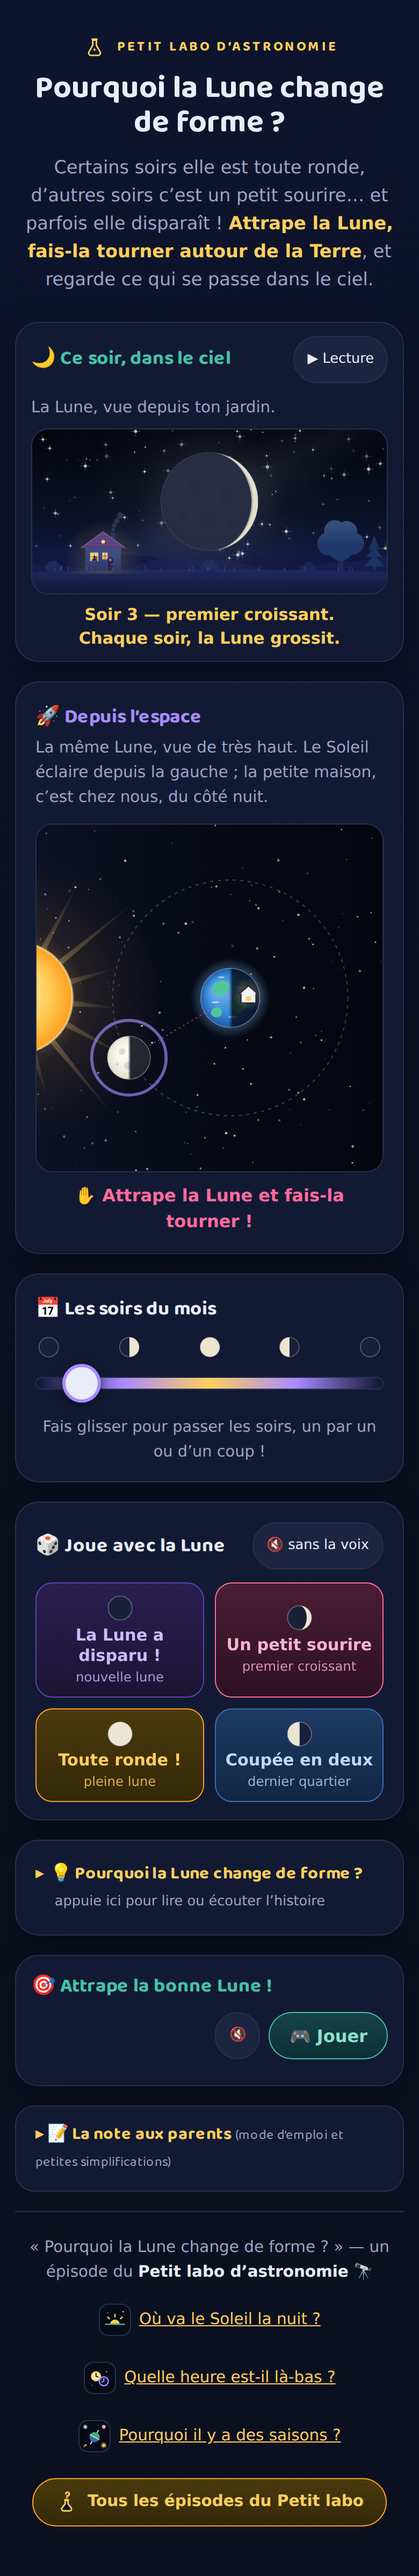
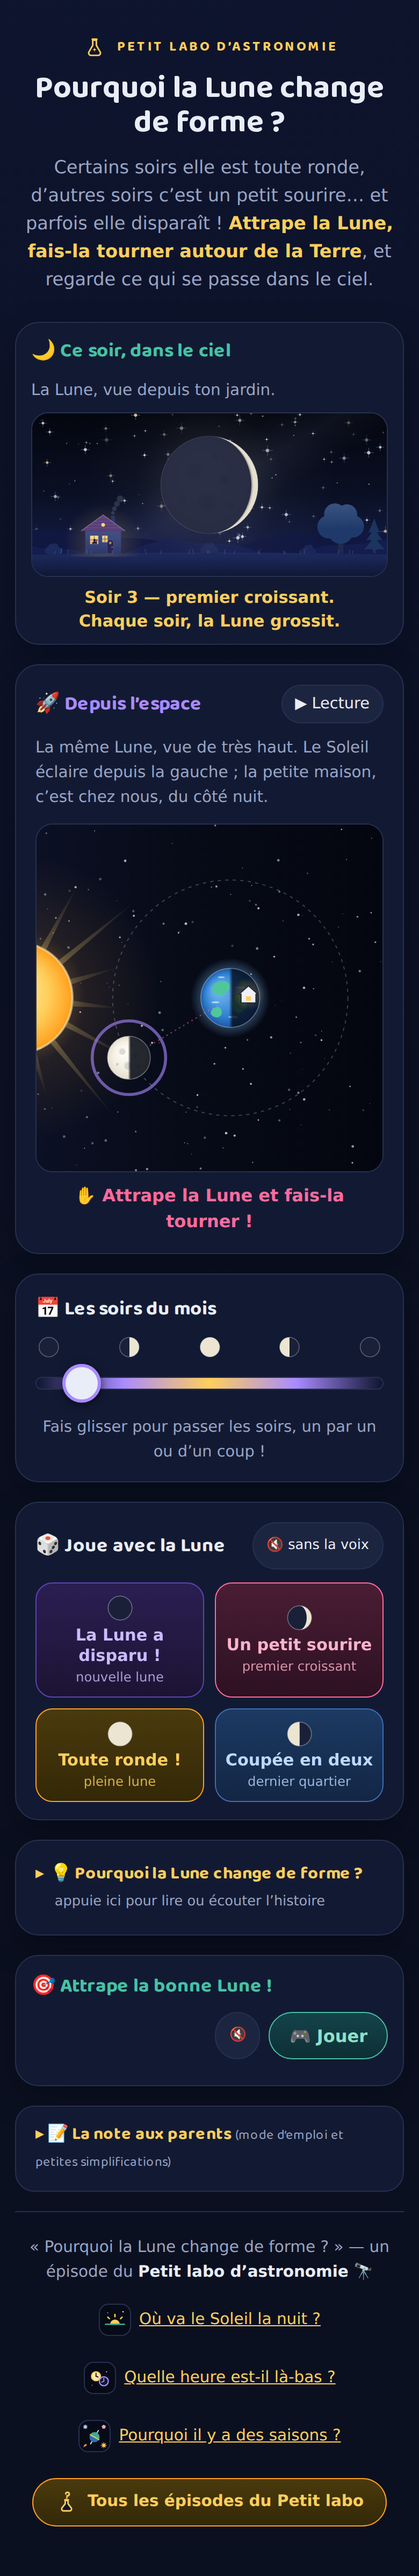
Le bouton ⏸/▶ dans la rangée du titre « Depuis l'espace »
Acquis des saisons (la-terre-est-penchee) : le bouton de lecture vit dans
la rangée du titre de la vue qu'on regarde tourner. Sur téléphone il se pose
entre les deux vues, sous le pouce, et un écran de 390 × 844 montre le
jardin, le bouton et l'espace d'un coup (mesuré : 704 px du haut du jardin
au bas de l'espace). Sur grand écran les deux cartes sont côte à côte, il
reste en haut. Un seul bouton, un seul câblage, rien de déplacé en JS ;
36 px de haut dans cette rangée, pas 44, pour ne pas la faire grandir
(compromis validé sur les saisons). CLAUDE.md et captures docs/ à jour.

Claude-Session: https://claude.ai/code/session_01NU1CBoUaNd48FiGT13WkuM

Changed region(s): [[0.0615, 0.1245, 0.9231, 0.2802]]

diff --git a/index.html b/index.html
@@ -70,11 +70,6 @@
       <div class="carte carte-hublot">
         <div class="titre-avec-bouton">
           <h2>🌙 Ce soir, dans le ciel</h2>
-          <!-- libellés empilés (grille 1×1) : largeur stable, rien ne se décale -->
-          <button id="bouton-lecture" class="bouton-son play-btn" type="button" aria-pressed="true"
-            aria-label="Mettre en pause (la Lune avance toute seule)"><span
-              class="play-on" aria-hidden="true">⏸ Pause</span><span
-              class="play-off" aria-hidden="true">▶ Lecture</span></button>
         </div>
         <p class="sous-titre">La Lune, vue depuis ton jardin.</p>
         <div class="cadre-canvas">
@@ -85,7 +80,19 @@
       </div>
 
       <div class="carte carte-orbite">
-        <h2>🚀 Depuis l’espace</h2>
+        <!-- le ⏸/▶ vit ICI, dans la rangée du titre de la vue qu'on regarde
+             tourner (acquis des saisons) : sur téléphone il se pose entre les
+             deux vues, sous le pouce, et l'écran montre le jardin, le bouton
+             et l'espace d'un coup ; sur grand écran les deux cartes sont côte
+             à côte, il reste en haut. Un seul bouton, un seul câblage. Les
+             deux libellés vivent empilés (grille 1×1) : largeur stable. -->
+        <div class="titre-avec-bouton">
+          <h2>🚀 Depuis l’espace</h2>
+          <button id="bouton-lecture" class="bouton-son play-btn" type="button" aria-pressed="true"
+            aria-label="Mettre en pause (la Lune avance toute seule)"><span
+              class="play-on" aria-hidden="true">⏸ Pause</span><span
+              class="play-off" aria-hidden="true">▶ Lecture</span></button>
+        </div>
         <p class="sous-titre">La même Lune, vue de très haut. Le Soleil éclaire depuis la gauche ; la petite maison, c’est chez nous, du côté nuit.</p>
         <div class="cadre-canvas">
           <canvas id="canvas-orbite"

diff --git a/css/style.css b/css/style.css
@@ -587,6 +587,10 @@ input[type="range"]:focus-visible { outline-offset: 4px; border-radius: 999px; }
 
   /* des cibles tactiles d'au moins ~44 px pour les petits doigts */
   .play-btn, .scn-voice-btn { min-height: 44px; padding-top: 8px; padding-bottom: 8px; }
+  /* le ⏸/▶ à droite du titre « Depuis l'espace », au format des autres
+     boutons mais 36 px de haut, pas 44 : la rangée du titre grandirait de
+     16 px (compromis validé sur les saisons) */
+  .carte-orbite .titre-avec-bouton .play-btn { min-height: 36px; padding: 4px 12px; font-size: 0.9rem; }
 
   /* LE MÉDAILLON S'ANCRE DANS L'EN-TÊTE DU JEU pendant le jeu (main.js l'y
      déplace tant que l'en-tête est à l'écran, et le rend à sa place flottante

diff --git a/CLAUDE.md b/CLAUDE.md
@@ -130,8 +130,13 @@ Vérités verrouillées par `test/model.test.mjs` (à compléter, jamais supprim
 - **La lecture auto** (harmonisation de la famille) : la Lune avance toute
   seule (`LECTURE_SECONDES_PAR_CYCLE` = 90 s par cycle, dans le modèle),
   commandée UNIQUEMENT par le **bouton ⏸/▶ à largeur stable** (libellés
-  « ⏸ Pause » / « ▶ Lecture » empilés) posé sur la PREMIÈRE carte
-  (« 🌙 Ce soir, dans le ciel ») — jamais par un tap sur une vue. Reprendre la main (attraper la Lune, bouger
+  « ⏸ Pause » / « ▶ Lecture » empilés) écrit dans la **rangée du titre
+  « 🚀 Depuis l'espace »** (acquis des saisons : sur téléphone il se pose
+  ENTRE les deux vues, sous le pouce, et un écran montre le jardin, le
+  bouton et l'espace d'un coup ; 36 px de haut dans cette rangée, pas 44 ;
+  sur grand écran les cartes sont côte à côte, il reste en haut) — un seul
+  bouton, un seul câblage, jamais déplacé en JS ; jamais commandée par un
+  tap sur une vue. Reprendre la main (attraper la Lune, bouger
   le curseur, choisir un scénario, ouvrir le jeu) met en pause ; **on ne gagne
   pas un défi pendant la lecture auto** (garde dans `surveillerDefi`) ;
   `prefers-reduced-motion` la désactive. Le bouton 🔇/🔊 partage le même
